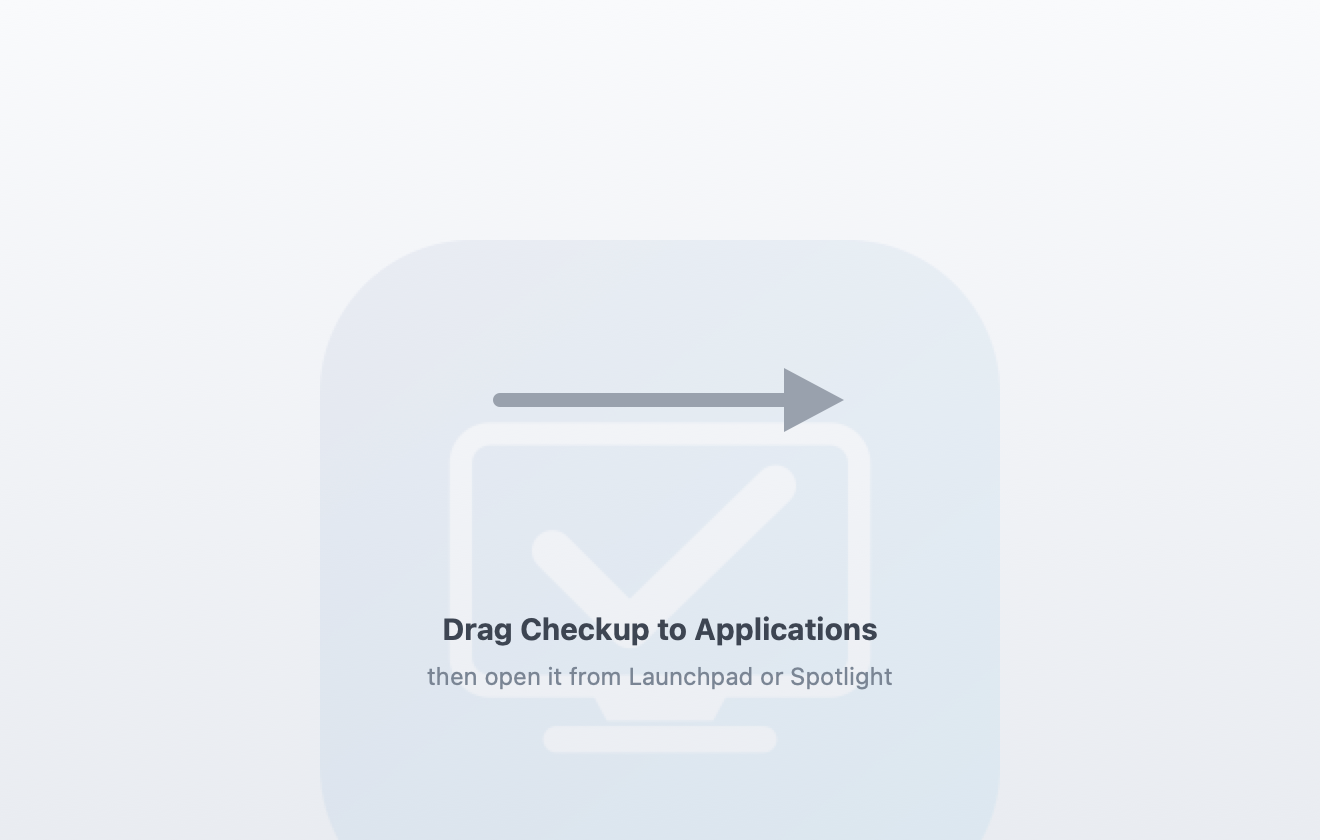
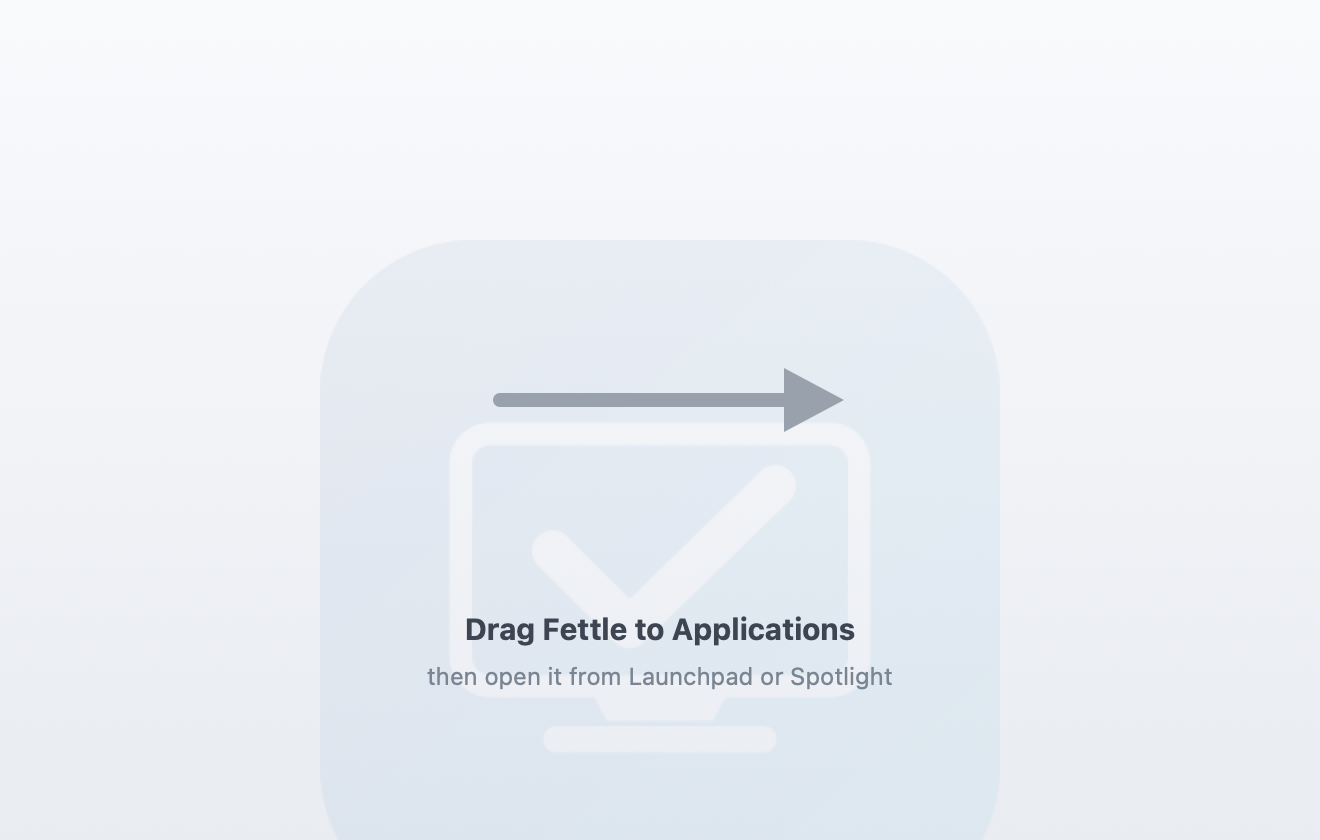
Rename the app to Fettle
Checkup was a crowded name, so the app is Fettle now: bundle com.fettle.app, sources, both installers, docs and the repo. Fettle means in good working order, and no software product uses it.

Also fixes two layout bugs the rename review uncovered. The Windows content security policy blocks inline style attributes, so the keyboard's six key rows were laying out side by side instead of stacked, and the microphone meter started full instead of empty. Both styles now live in the stylesheet.

Changed region(s): [[0.3417, 0.7119, 0.6833, 0.7738]]

diff --git a/windows/renderer/app.js b/windows/renderer/app.js
@@ -1,4 +1,4 @@
-// Checkup renderer. Everything here uses browser APIs so it behaves the
+// Fettle renderer. Everything here uses browser APIs so it behaves the
 // same on Windows and, during development, anywhere else Electron runs.
 
 const CHECKS = [
@@ -26,7 +26,7 @@ const $ = (id) => document.getElementById(id);
 // browser - which is how most of it gets developed and checked - the OS-facing
 // calls report themselves unavailable instead of taking the whole page down.
 const unavailable = (what) => async () => ({ ok: false, error: what + ' needs the desktop app.' });
-const bridge = window.checkup || {
+const bridge = window.fettle || {
   systemInfo: async () => ({
     platform: 'browser', platformName: 'Browser', release: 'n/a', arch: 'n/a',
     hostname: location.host || 'local',
@@ -42,11 +42,11 @@ const bridge = window.checkup || {
 };
 
 let results = {};
-try { results = JSON.parse(localStorage.getItem('checkup.results') || '{}'); } catch { results = {}; }
+try { results = JSON.parse(localStorage.getItem('fettle.results') || '{}'); } catch { results = {}; }
 
 const statusOf = (id) => (results[id] && results[id].status) || 'Untested';
 const noteOf = (id) => (results[id] && results[id].note) || '';
-const save = () => localStorage.setItem('checkup.results', JSON.stringify(results));
+const save = () => localStorage.setItem('fettle.results', JSON.stringify(results));
 
 let current = 'overview';
 let guided = { active: false, index: 0 };
@@ -351,7 +351,7 @@ builders.microphone = () => card('Record and play back',
   '<button id="mic-stop" disabled>Stop recording</button>' +
   '<button id="mic-play" disabled>Play back</button></div>' +
   '<p><span class="hint">Input level</span></p>' +
-  '<div class="bar" id="mic-bar"><i style="width:0%"></i></div>' +
+  '<div class="bar" id="mic-bar"><i></i></div>' +
   '<p class="hint" id="mic-state">Idle.</p>' +
   '<audio id="mic-audio" controls hidden></audio>') +
   card('What to listen for',
@@ -486,7 +486,7 @@ let testedKeys = new Set();
 
 builders.keyboard = () => {
   let html = '<p>Press each key in turn. Keys you have pressed turn green, so whatever ' +
-    'stays grey is not working.</p><div class="row" style="flex-direction:column;align-items:flex-start">';
+    'stays grey is not working.</p><div class="row keyboard-grid">';
   for (const row of KEY_ROWS) {
     html += '<div class="row">';
     for (const code of row) {
@@ -763,7 +763,7 @@ $('notes').addEventListener('input', (event) => {
 // Report -----------------------------------------------------------------
 
 function reportText() {
-  const lines = ['# Checkup report', ''];
+  const lines = ['# Fettle report', ''];
   lines.push('**' + (systemSnapshot || 'Machine details unavailable') + '**');
   lines.push('');
   lines.push('| Check | Result | Notes |');

diff --git a/windows/main.js b/windows/main.js
@@ -1,4 +1,4 @@
-// Checkup for Windows.
+// Fettle for Windows.
 //
 // The only OS-specific work lives here, behind IPC: WMI queries via PowerShell,
 // a disk speed test on the temp volume, and the plain Node facts. Everything
@@ -20,7 +20,7 @@ function createWindow() {
     height: 720,
     minWidth: 900,
     minHeight: 620,
-    title: 'Checkup',
+    title: 'Fettle',
     backgroundColor: '#f4f5f7',
     webPreferences: {
       preload: path.join(__dirname, 'preload.js'),
@@ -70,7 +70,7 @@ function registerIpc() {
 
   ipcMain.handle('storage:benchmark', async (_event, megabytes) => {
     const size = Math.max(1, Number(megabytes) || 64) * 1000 * 1000;
-    const file = path.join(os.tmpdir(), 'checkup-speedtest.bin');
+    const file = path.join(os.tmpdir(), 'fettle-speedtest.bin');
 
     // A repeating pattern rather than zeros, so the read-back check means
     // something.

diff --git a/Sources/Fettle/Core/StorageBenchmark.swift b/Sources/Fettle/Core/StorageBenchmark.swift
@@ -10,10 +10,10 @@ enum StorageBenchmark {
         let verified: Bool
     }
 
-    /// Runs the benchmark in `directory`, defaulting to a Checkup folder in
+    /// Runs the benchmark in `directory`, defaulting to a Fettle folder in
     /// the temporary directory. Returns nil if the file could not be written.
     static func run(megabytes: Int = 64, in directory: URL? = nil) -> Result? {
-        let target = directory ?? FileManager.default.temporaryDirectory.appendingPathComponent("Checkup", isDirectory: true)
+        let target = directory ?? FileManager.default.temporaryDirectory.appendingPathComponent("Fettle", isDirectory: true)
         try? FileManager.default.createDirectory(at: target, withIntermediateDirectories: true)
         let file = target.appendingPathComponent("speedtest.bin")
         let byteCount = max(1, megabytes) * 1_000_000

diff --git a/windows/renderer/styles.css b/windows/renderer/styles.css
@@ -123,12 +123,15 @@ button.primary:hover:not(:disabled) { background: #1a5fd0; border-color: #1a5fd0
 
 .card p { margin: 0 0 10px; color: var(--muted); }
 .row { display: flex; gap: 8px; align-items: center; flex-wrap: wrap; }
+/* The key rows have to stack; the CSP blocks inline style attributes, so this
+   cannot be written in the markup. */
+.row.keyboard-grid { flex-direction: column; align-items: flex-start; }
 
 .kv { display: grid; grid-template-columns: 200px 1fr; gap: 4px 12px; }
 .kv .k { color: var(--muted); }
 
 .bar { height: 14px; background: #e6eaf0; border-radius: 7px; overflow: hidden; }
-.bar > i { display: block; height: 100%; background: var(--ok); }
+.bar > i { display: block; height: 100%; width: 0; background: var(--ok); }
 .bar.hot > i { background: #d29922; }
 .bar.clip > i { background: var(--bad); }
 

diff --git a/Sources/Fettle/Checks/DisplayCheckView.swift b/Sources/Fettle/Checks/DisplayCheckView.swift
@@ -70,7 +70,7 @@ final class PixelCanvasView: NSView {
         super.viewDidMoveToWindow()
         // Name the first colour straight away so the very first frame is
         // labelled too, not only the ones reached by advancing.
-        window?.title = "Checkup pixel test — \(PixelSequence.color(at: index).name)"
+        window?.title = "Fettle pixel test — \(PixelSequence.color(at: index).name)"
     }
 
     override func draw(_ dirtyRect: NSRect) {
@@ -92,7 +92,7 @@ final class PixelCanvasView: NSView {
 
     func advance() {
         index = PixelSequence.nextIndex(after: index)
-        window?.title = "Checkup pixel test — \(PixelSequence.color(at: index).name)"
+        window?.title = "Fettle pixel test — \(PixelSequence.color(at: index).name)"
         needsDisplay = true
     }
 }

diff --git a/Sources/Fettle/Checks/MicrophoneCheckView.swift b/Sources/Fettle/Checks/MicrophoneCheckView.swift
@@ -32,7 +32,7 @@ struct MicrophoneCheckView: View {
                     Text(mic.statusText).font(.callout).foregroundStyle(.secondary)
 
                     if let granted = mic.permissionGranted, !granted {
-                        Label("Microphone access is denied. Open System Settings › Privacy & Security › Microphone and enable Checkup.",
+                        Label("Microphone access is denied. Open System Settings › Privacy & Security › Microphone and enable Fettle.",
                               systemImage: "exclamationmark.triangle")
                             .foregroundStyle(.orange)
                             .fixedSize(horizontal: false, vertical: true)

diff --git a/Sources/Fettle/RootView.swift b/Sources/Fettle/RootView.swift
@@ -21,7 +21,7 @@ struct RootView: View {
                 .tag(module)
             }
             .navigationSplitViewColumnWidth(min: 210, ideal: 230, max: 280)
-            .navigationTitle("Checkup")
+            .navigationTitle("Fettle")
         } detail: {
             VStack(spacing: 0) {
                 if guided.isActive {
@@ -29,7 +29,7 @@ struct RootView: View {
                     Divider()
                 }
                 detail
-                    .navigationTitle(guided.selection?.title ?? "Checkup")
+                    .navigationTitle(guided.selection?.title ?? "Fettle")
             }
         }
         .frame(minWidth: 900, minHeight: 620)

diff --git a/Sources/Fettle/FettleApp.swift b/Sources/Fettle/FettleApp.swift
@@ -2,7 +2,7 @@ import Foundation
 import SwiftUI
 
 @main
-struct CheckupApp: App {
+struct FettleApp: App {
     @StateObject private var progress = ProgressStore()
     @StateObject private var guided = GuidedSession()
 
@@ -23,7 +23,7 @@ struct CheckupApp: App {
                 .environmentObject(guided)
         }
         .commands {
-            // Checkup is a single-purpose test tool; a "New window" item would
+            // Fettle is a single-purpose test tool; a "New window" item would
             // only spawn a second copy of the checklist.
             CommandGroup(replacing: .newItem) {}
         }

diff --git a/Sources/Fettle/Checks/DashboardView.swift b/Sources/Fettle/Checks/DashboardView.swift
@@ -84,9 +84,9 @@ struct DashboardView: View {
 
     private func saveReport() {
         let panel = NSSavePanel()
-        panel.nameFieldStringValue = "Checkup-report.md"
+        panel.nameFieldStringValue = "Fettle-report.md"
         panel.allowedContentTypes = [.plainText]
-        panel.title = "Save Checkup report"
+        panel.title = "Save Fettle report"
         guard panel.runModal() == .OK, let url = panel.url else { return }
         do {
             try progress.markdownReport(machine: machine).write(to: url, atomically: true, encoding: .utf8)

diff --git a/scripts/make-dmg-background.swift b/scripts/make-dmg-background.swift
@@ -96,7 +96,7 @@ func makeBackground(scale: Int) -> CGImage? {
         CTLineDraw(line, ctx)
     }
 
-    caption("Drag Checkup to Applications", y: 302, size: 15, emphasized: true,
+    caption("Drag Fettle to Applications", y: 302, size: 15, emphasized: true,
             color: CGColor(srgbRed: 0.24, green: 0.27, blue: 0.32, alpha: 1))
     caption("then open it from Launchpad or Spotlight", y: 328, size: 12, emphasized: false,
             color: CGColor(srgbRed: 0.48, green: 0.52, blue: 0.58, alpha: 1))

diff --git a/Sources/Fettle/Core/MicRecorder.swift b/Sources/Fettle/Core/MicRecorder.swift
@@ -19,7 +19,7 @@ final class MicRecorder: ObservableObject {
     private var meterTimer: Timer?
 
     private var fileURL: URL {
-        let dir = FileManager.default.temporaryDirectory.appendingPathComponent("Checkup", isDirectory: true)
+        let dir = FileManager.default.temporaryDirectory.appendingPathComponent("Fettle", isDirectory: true)
         try? FileManager.default.createDirectory(at: dir, withIntermediateDirectories: true)
         return dir.appendingPathComponent("mic-test.m4a")
     }

diff --git a/windows/renderer/index.html b/windows/renderer/index.html
@@ -3,12 +3,12 @@
 <head>
   <meta charset="utf-8">
   <meta http-equiv="Content-Security-Policy" content="default-src 'self'; style-src 'self'; script-src 'self'">
-  <title>Checkup</title>
+  <title>Fettle</title>
   <link rel="stylesheet" href="styles.css">
 </head>
 <body>
   <aside id="sidebar">
-    <h1>Checkup</h1>
+    <h1>Fettle</h1>
     <nav id="nav"></nav>
     <div class="sidebar-foot">
       <button id="run-all" class="primary">Run all checks</button>
